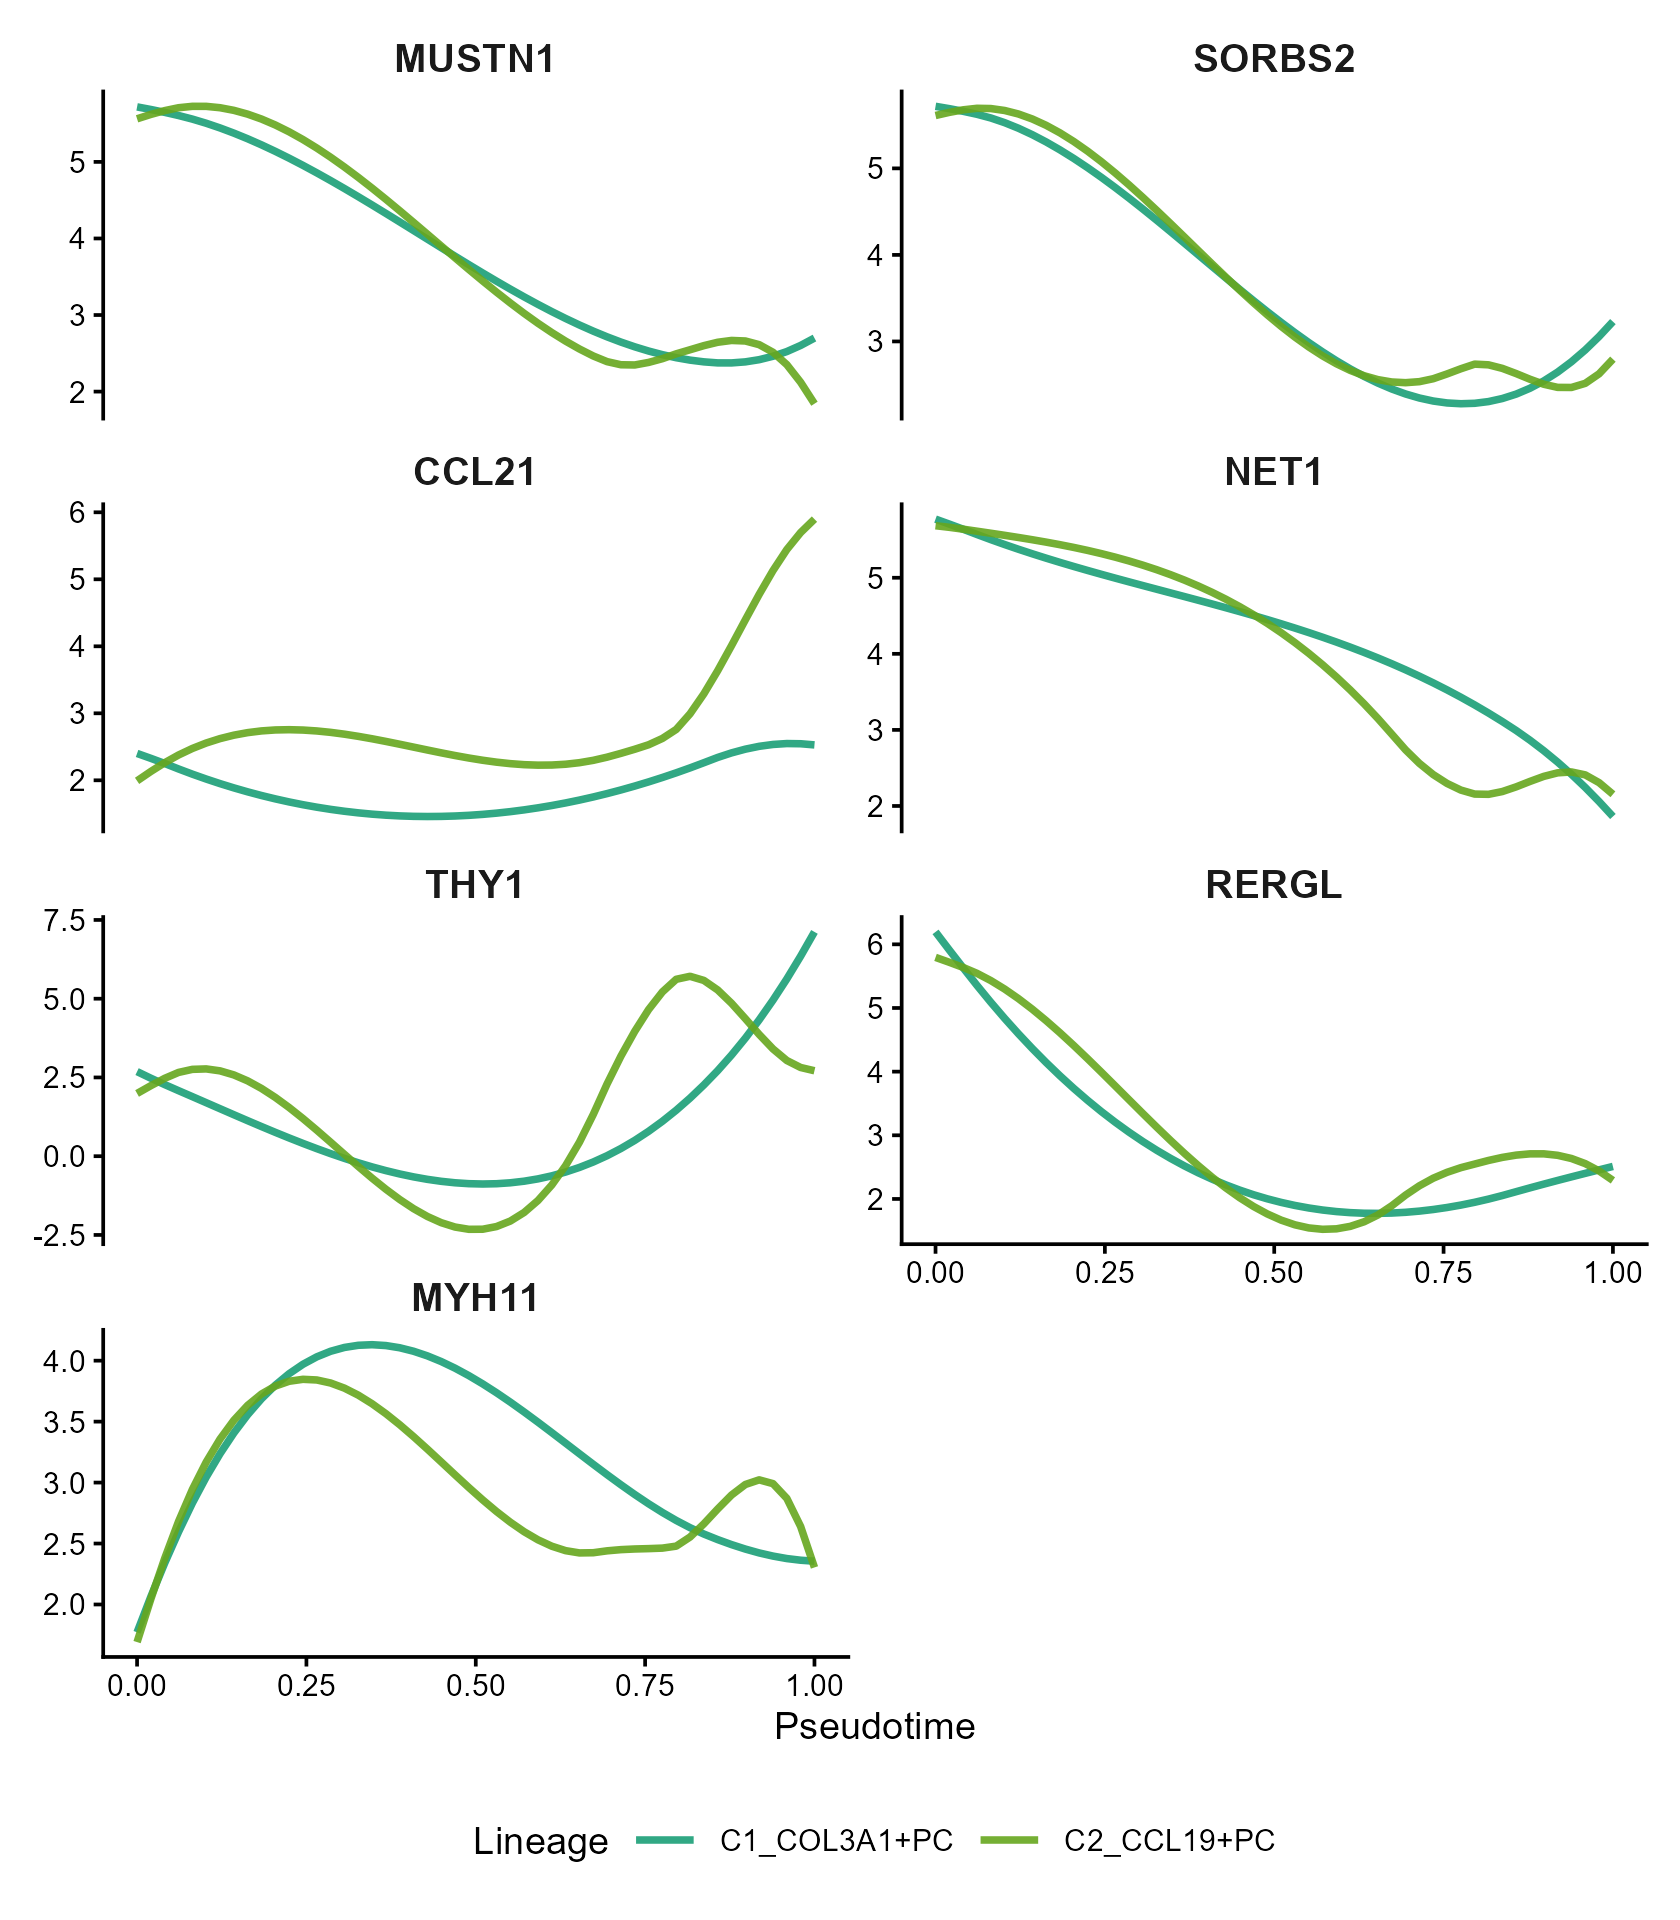
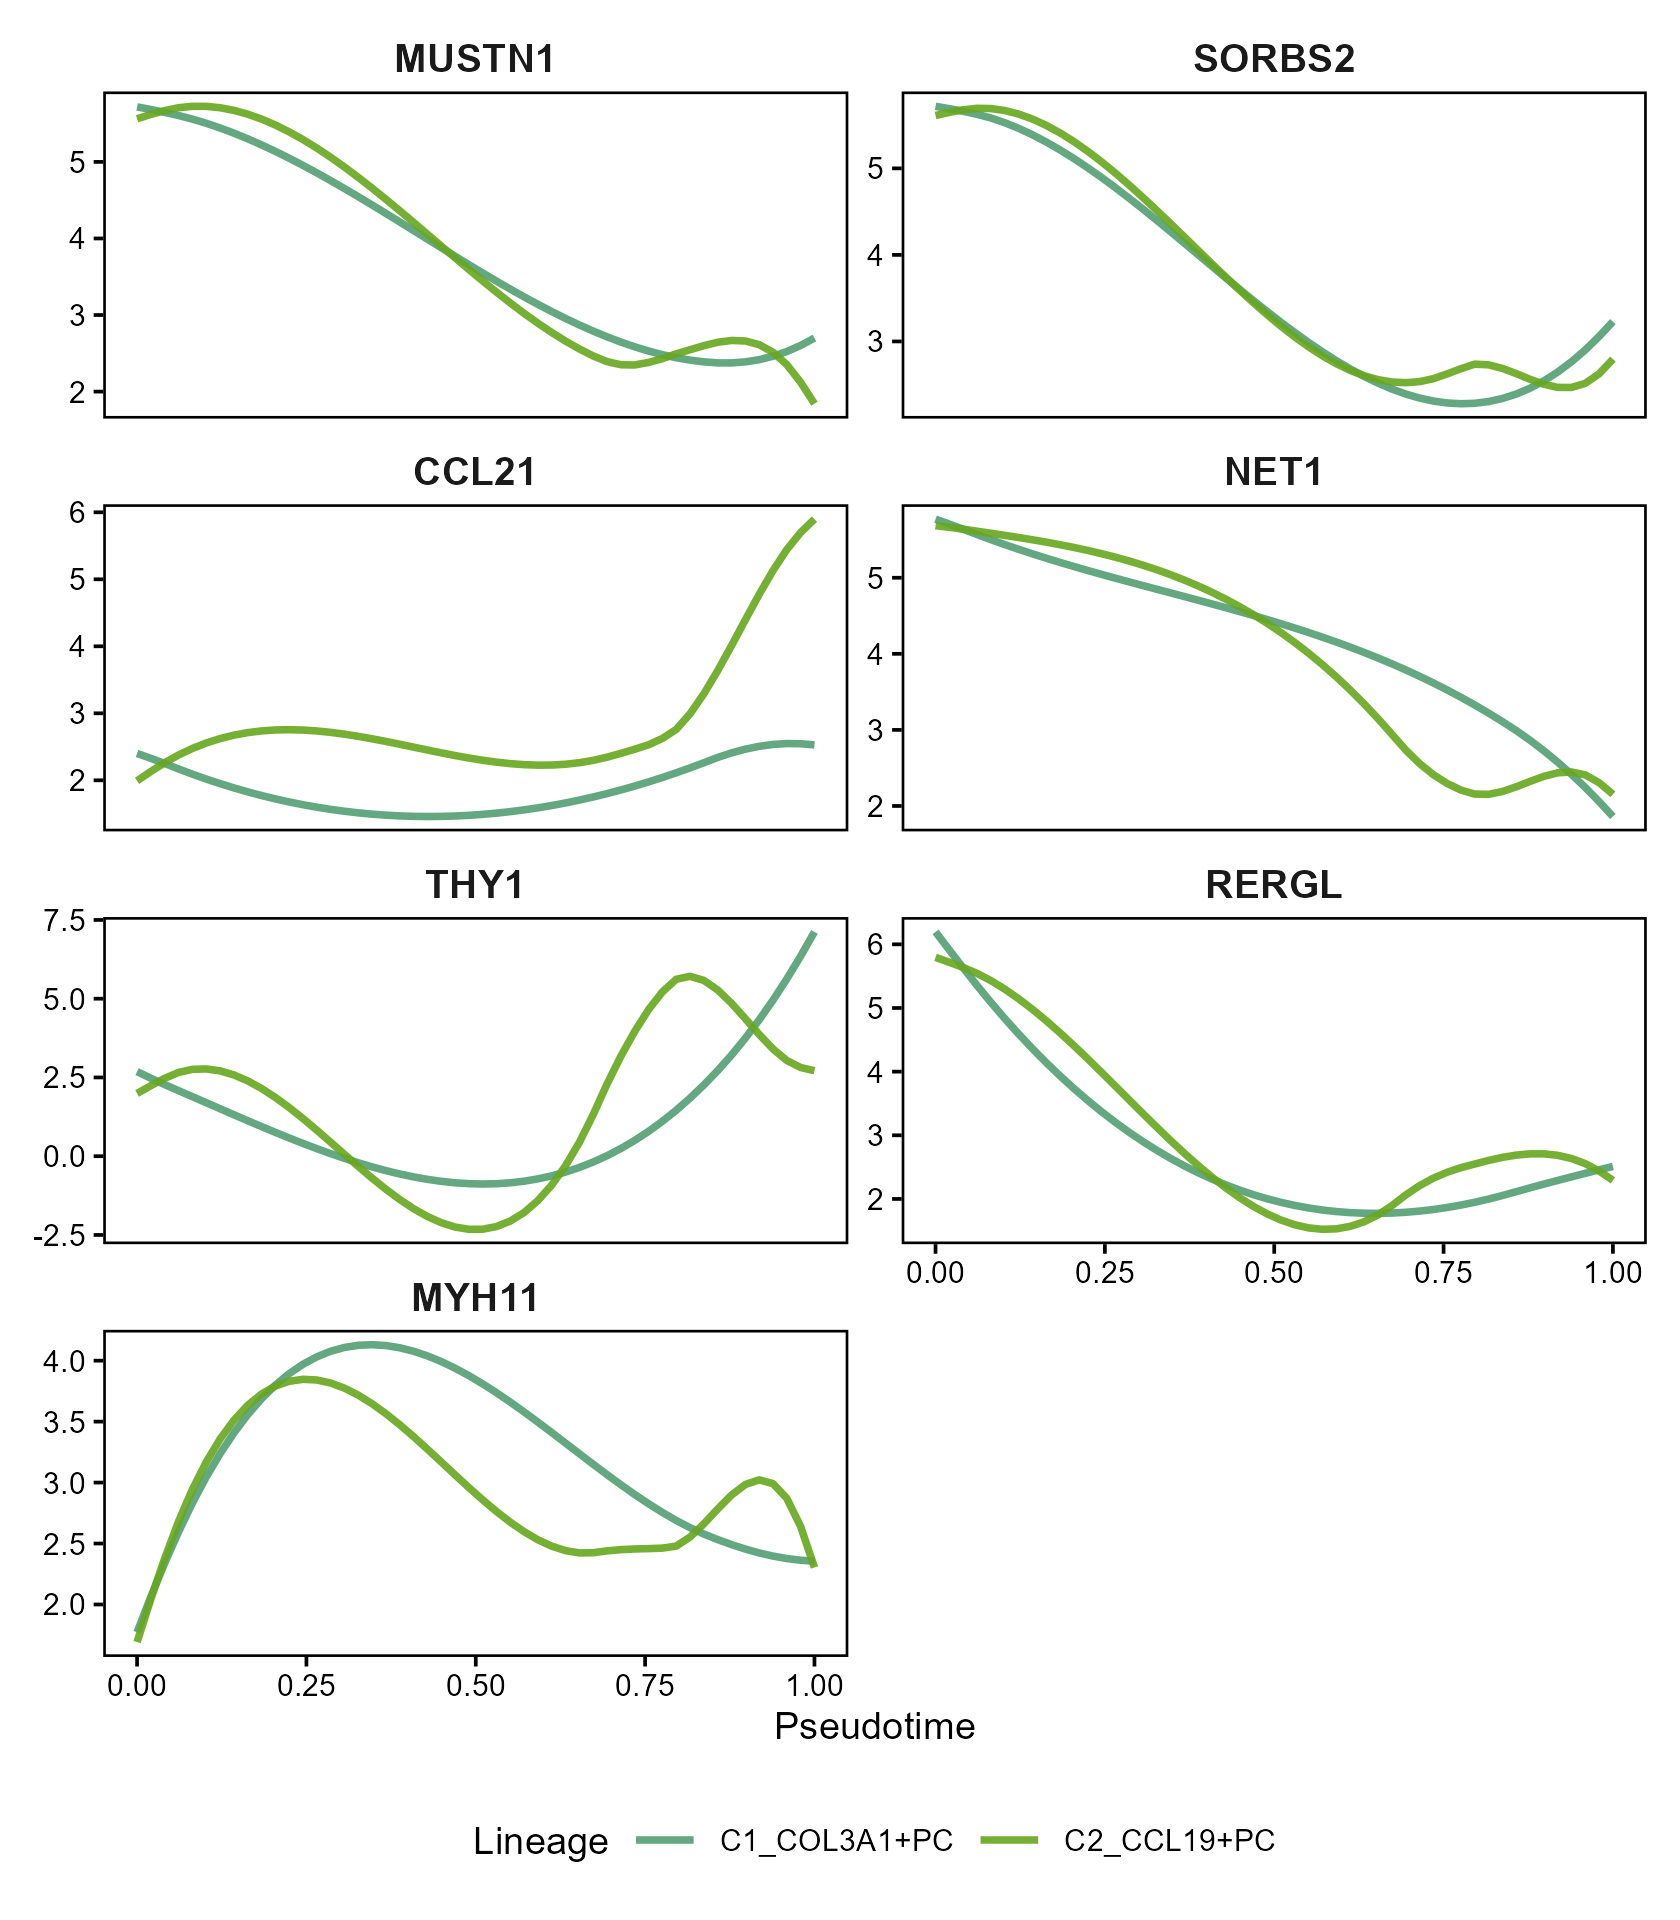
verify pseudotime-branch-curves

diff --git a/wiki/log.md b/wiki/log.md
@@ -1603,3 +1603,5 @@
 ## [2026-11-19 14:51 UTC] verify lr-bipartite-bubble
 
 ## [2026-11-19 14:51 UTC] verify metabolism-lollipop-dotplot
+
+## [2026-11-19 14:52 UTC] verify pseudotime-branch-curves
